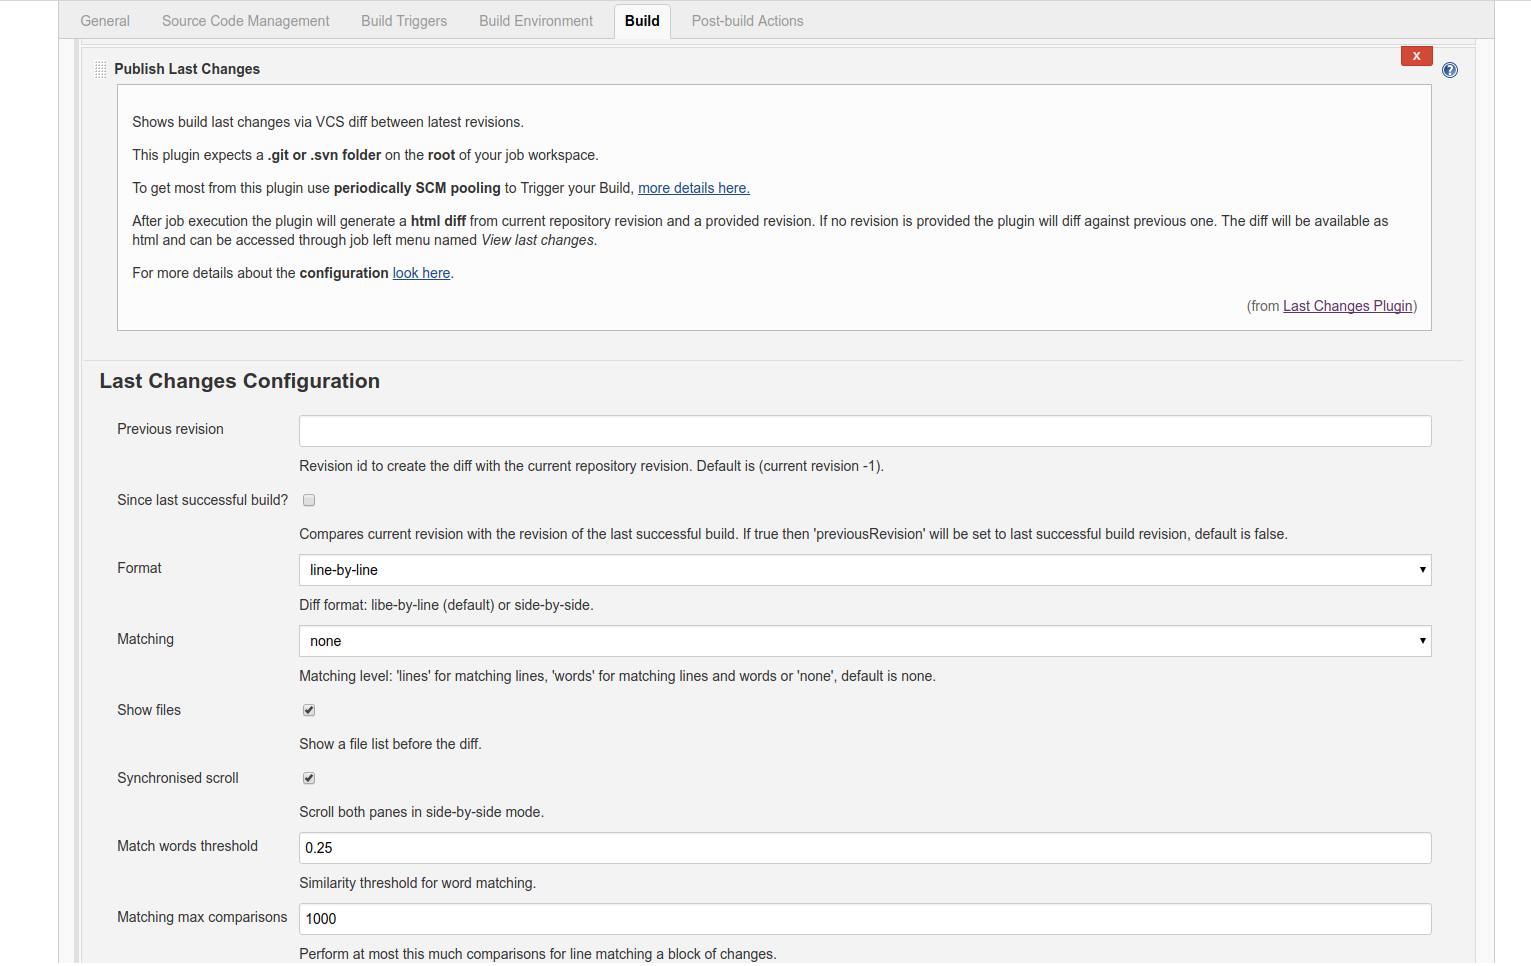
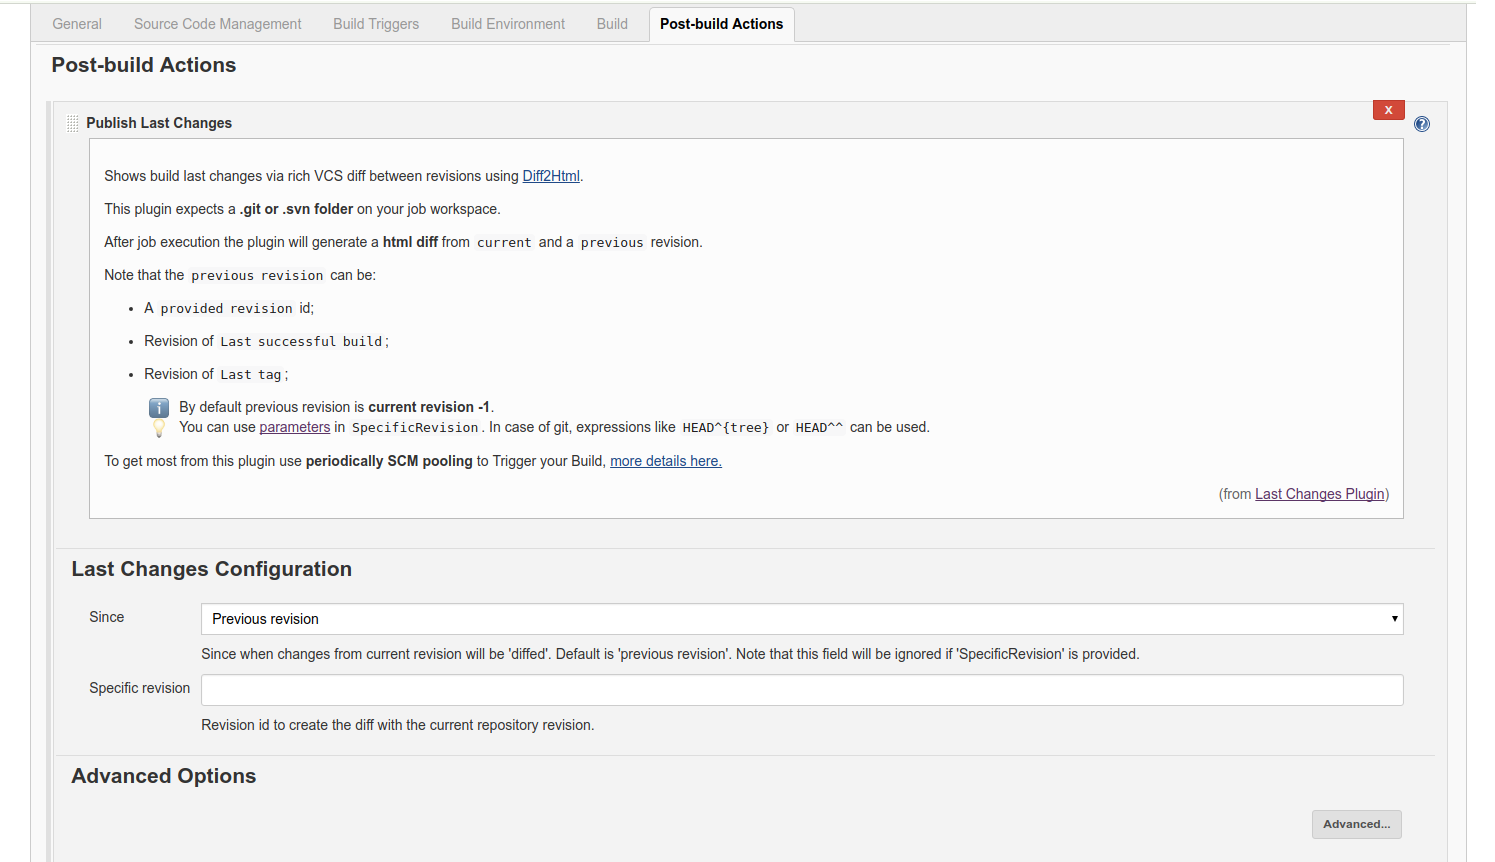
refs #27

Changed region(s): [[0.0308, 0.0, 0.9846, 1.0], [0.8, 0.3016, 0.9231, 0.3318], [0.8615, 0.935, 0.9538, 0.9652]]

diff --git a/src/main/resources/com/github/jenkins/lastchanges/LastChangesPublisher/help.html b/src/main/resources/com/github/jenkins/lastchanges/LastChangesPublisher/help.html
@@ -1,11 +1,77 @@
-<p>Shows build last changes via VCS diff between revisions. </p>
+<style>
+    *:not(pre)>code {
+        font-size: .9375em;
+        font-style: normal!important;
+        letter-spacing: 0;
+        padding: .1em .5ex;
+        word-spacing: -.15em;
+        background-color: #f7f7f8;
+        -webkit-border-radius: 4px;
+        border-radius: 4px;
+        line-height: 1.45;
+        text-rendering: optimizeSpeed;
+        word-wrap: break-word;
+    }
+
+    code {
+        font-family: "Droid Sans Mono","DejaVu Sans Mono",monospace;
+        font-weight: 400;
+        color: rgba(0,0,0,.9);
+    }
+    code, kbd, pre, samp {
+        font-family: monospace;
+        font-size: 1em;
+    }
+</style>
+
+<p>Shows build last changes via rich VCS diff between revisions using <a href="https://github.com/rtfpessoa/diff2html#configuration" target="_blank">Diff2Html</a>. </p>
 
 <p>This plugin expects a <b>.git or .svn folder</b> on your job workspace.</p>
 
+<p>After job execution the plugin will generate a <b>html diff</b> from <code>current</code> and a <code>previous</code> revision.
+
+
+<div>
+    <p>Note that the <code>previous revision</code> can be:</p>
+    <div>
+        <ul>
+            <li>
+                <p>A <code>provided revision</code> id;</p>
+            </li>
+            <li>
+                <p>Revision of <code>Last successful build</code>;</p>
+            </li>
+            <li>
+                <p>Revision of <code>Last tag</code>;</p>
+                <div>
+                    <table>
+                        <tbody><tr>
+                            <td>
+                                <div><g-emoji alias="information_source" fallback-src="https://assets-cdn.github.com/images/icons/emoji/unicode/2139.png" ios-version="6.0"><img class="emoji" alt=":information_source:" height="20" width="20" src="https://assets-cdn.github.com/images/icons/emoji/unicode/2139.png"></g-emoji></div>
+                            </td>
+                            <td>
+                                By default previous revision is <b>current revision -1</b>.
+                            </td>
+                        </tr>
+                        </tbody></table>
+                </div>
+                <div>
+                    <table>
+                        <tbody><tr>
+                            <td>
+                                <div><g-emoji alias="bulb" fallback-src="https://assets-cdn.github.com/images/icons/emoji/unicode/1f4a1.png" ios-version="6.0"><img class="emoji" alt=":bulb:" height="20" width="20" src="https://assets-cdn.github.com/images/icons/emoji/unicode/1f4a1.png"></g-emoji></div>
+                            </td>
+                            <td>
+                                You can use <a href="https://wiki.jenkins.io/display/JENKINS/Parameterized+Build">parameters</a> in <code>SpecificRevision</code>. In case of git, expressions like <code>HEAD^{tree}</code> or <code>HEAD^^</code> can be used.
+                            </td>
+                        </tr>
+                        </tbody></table>
+                </div>
+            </li>
+        </ul>
+    </div>
+</div>
+
+
+
 <p> To get most from this plugin use <b>periodically SCM pooling</b> to Trigger your Build, <a href="http://www.nailedtothex.org/roller/kyle/entry/articles-jenkins-poll" target="_blank"> more details here.</a> </p>
-
-<p>After job execution the plugin will generate a <b>html diff</b> from current repository revision and a target revision. Target revision can be <b>previous revision</b> (default), revision from <b>last successful build</b>, revision from <b>last tag</b> or a <b>provided revision</b>. The diff will be available as html and can be accessed through job left menu named <i>View last changes</i>.</p>
-
-<p>For more details about the <b>configuration</b> <a href="https://github.com/rtfpessoa/diff2html#configuration" target="_blank">look here</a>. </p>
-
-
